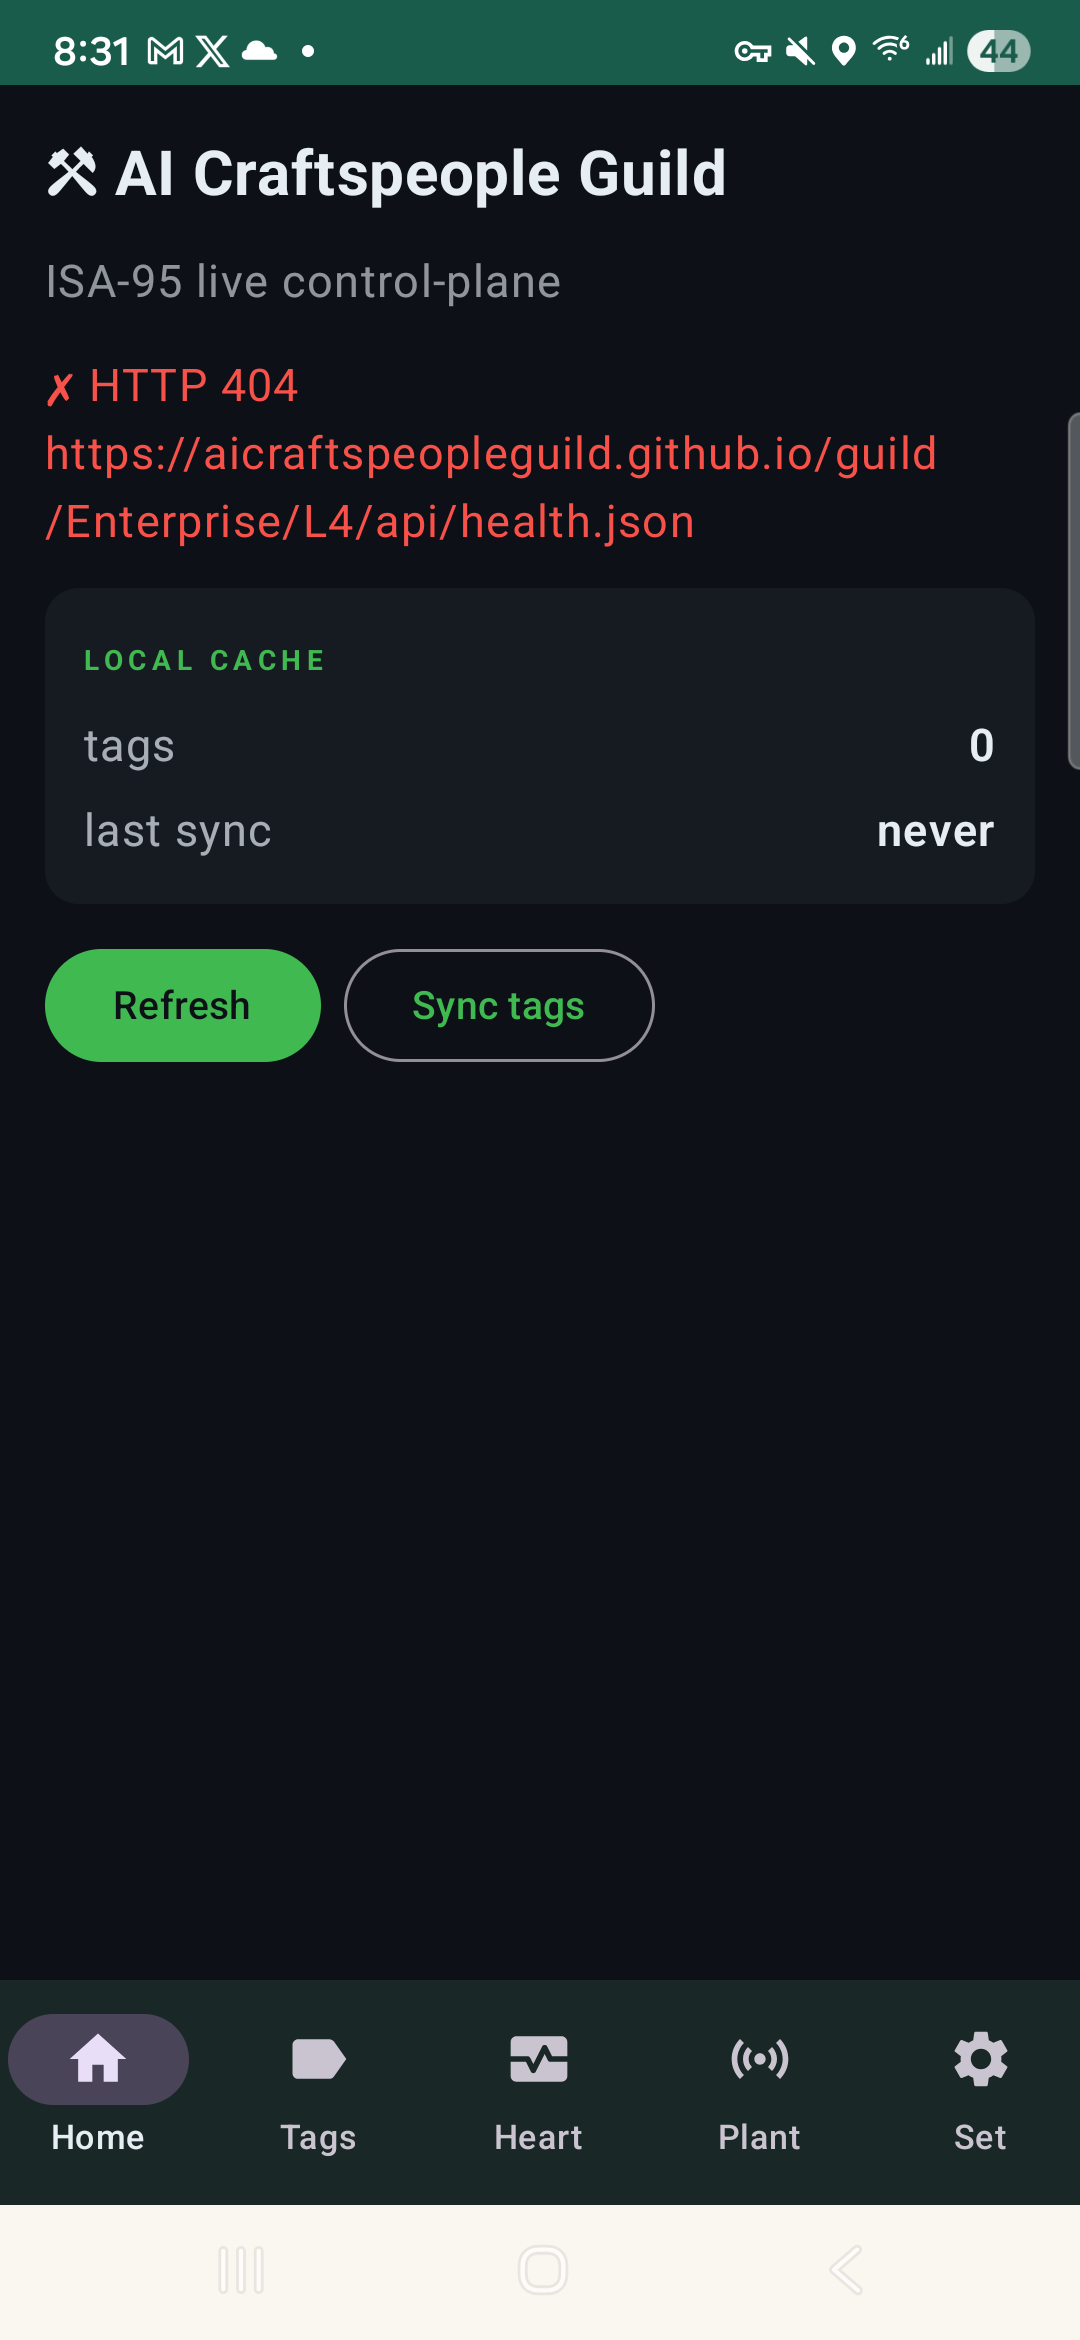
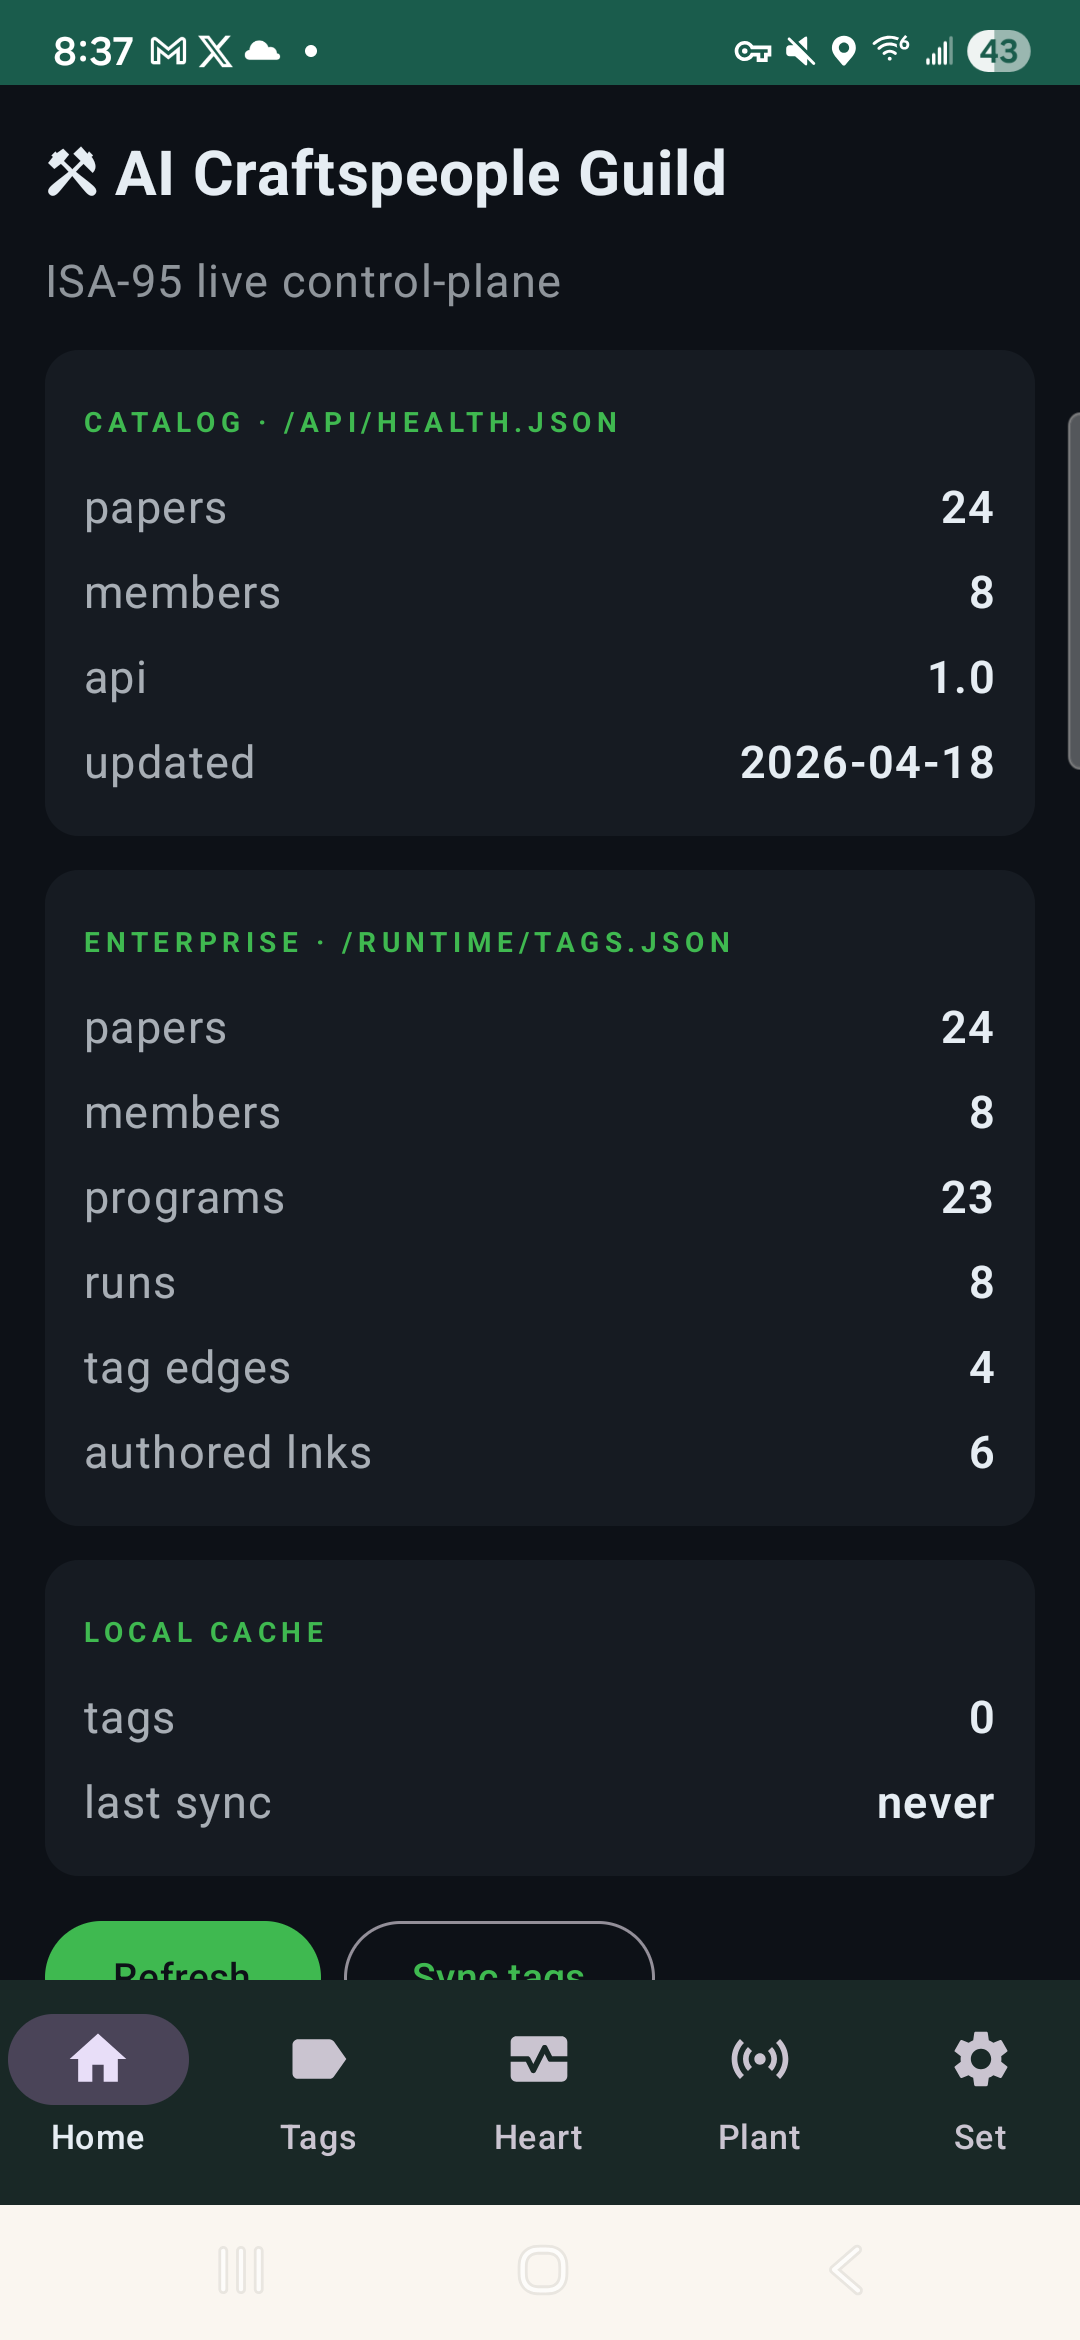
feat(android): point default host + tag-DB repo at the teslasolar fork
Origin's main was rewound past the /api/*.json endpoints, so the app
was showing HTTP 404 on Home. Flip the defaults:

  ApiClient.base   → https://teslasolar.github.io/aicraftspeopleguild.github.io
  GhTagClient.repo → teslasolar/aicraftspeopleguild.github.io

Home now renders the fork's live numbers (catalog + enterprise). The
mirror/compare SVG layer (guild/Enterprise/L4/svg/build-fork-compare.py)
keeps origin in view separately. The About line says so.

diff --git a/acg-android/app/src/main/java/com/aicraftspeopleguild/acg/data/ApiClient.kt b/acg-android/app/src/main/java/com/aicraftspeopleguild/acg/data/ApiClient.kt
@@ -11,8 +11,10 @@ import okhttp3.Request
 import java.io.IOException
 import java.util.concurrent.TimeUnit
 
-/** Thin OkHttp wrapper around the public L4 API. No auth required. */
-class ApiClient(base: String = "https://aicraftspeopleguild.github.io") {
+/** Thin OkHttp wrapper around the public L4 API. No auth required.
+ *  Default host is the teslasolar fork's Pages site; pass a different
+ *  base to watch the aicraftspeopleguild origin or any other mirror. */
+class ApiClient(base: String = "https://teslasolar.github.io/aicraftspeopleguild.github.io") {
     private val baseUrl: String = base.trimEnd('/') + "/guild/Enterprise/L4"
     private val http = OkHttpClient.Builder()
         .connectTimeout(10, TimeUnit.SECONDS)

diff --git a/acg-android/app/src/main/java/com/aicraftspeopleguild/acg/ui/SettingsScreen.kt b/acg-android/app/src/main/java/com/aicraftspeopleguild/acg/ui/SettingsScreen.kt
@@ -90,7 +90,7 @@ fun SettingsScreen(
         HorizontalDivider()
         Text("About", style = MaterialTheme.typography.titleMedium)
         Text("ACG Android 0.3.0 · L0 sensor plant · local tag.db · Mqtt bus · UDT catalog.", fontSize = 12.sp)
-        Text("Repo: aicraftspeopleguild/aicraftspeopleguild.github.io", fontSize = 12.sp,
+        Text("Fork: teslasolar/aicraftspeopleguild.github.io  ·  watches origin too", fontSize = 12.sp,
              color = MaterialTheme.colorScheme.onBackground.copy(alpha = 0.6f))
     }
 }

diff --git a/acg-android/app/src/main/java/com/aicraftspeopleguild/acg/data/GhTagClient.kt b/acg-android/app/src/main/java/com/aicraftspeopleguild/acg/data/GhTagClient.kt
@@ -21,7 +21,7 @@ import java.util.concurrent.TimeUnit
  * dodge indexing lag — walk label:tag issues by title instead.
  */
 class GhTagClient(
-    private val repo: String = "aicraftspeopleguild/aicraftspeopleguild.github.io",
+    private val repo: String = "teslasolar/aicraftspeopleguild.github.io",
     private val tokenProvider: () -> String? = { null },
 ) {
     private val http = OkHttpClient.Builder()
